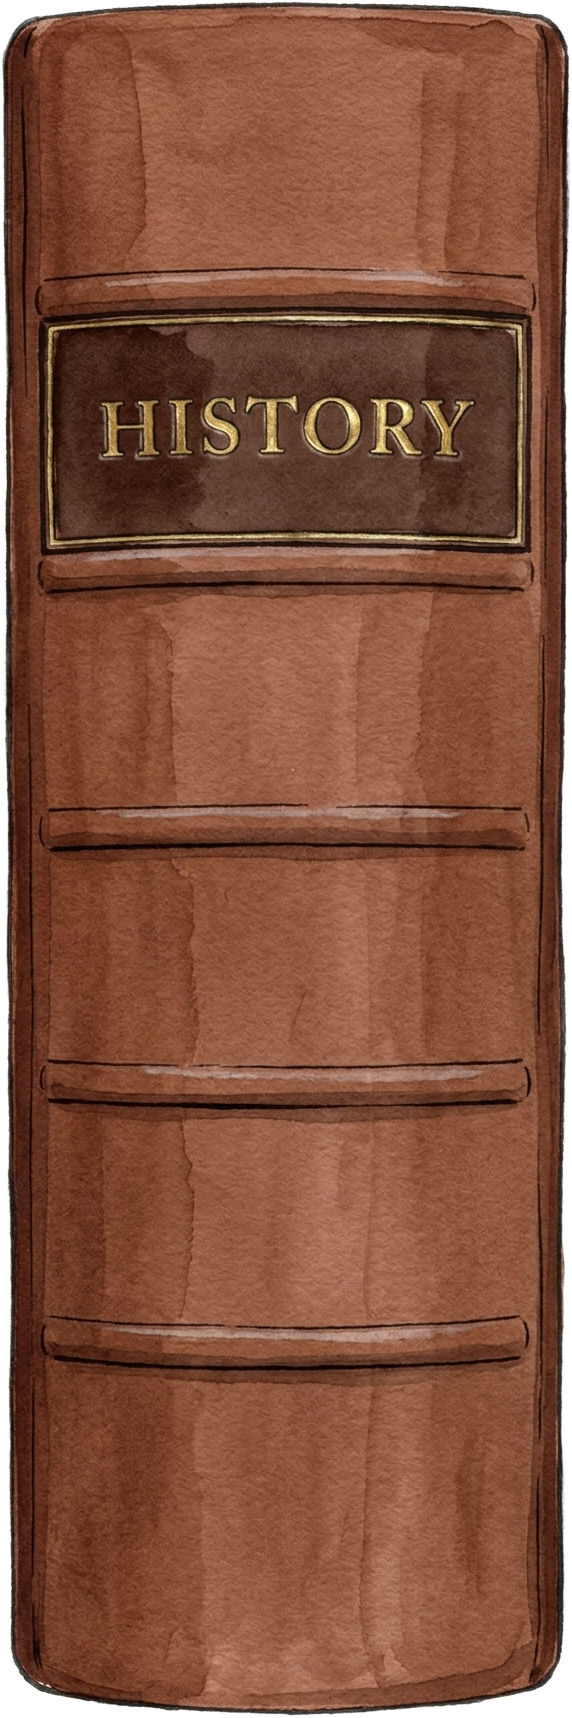
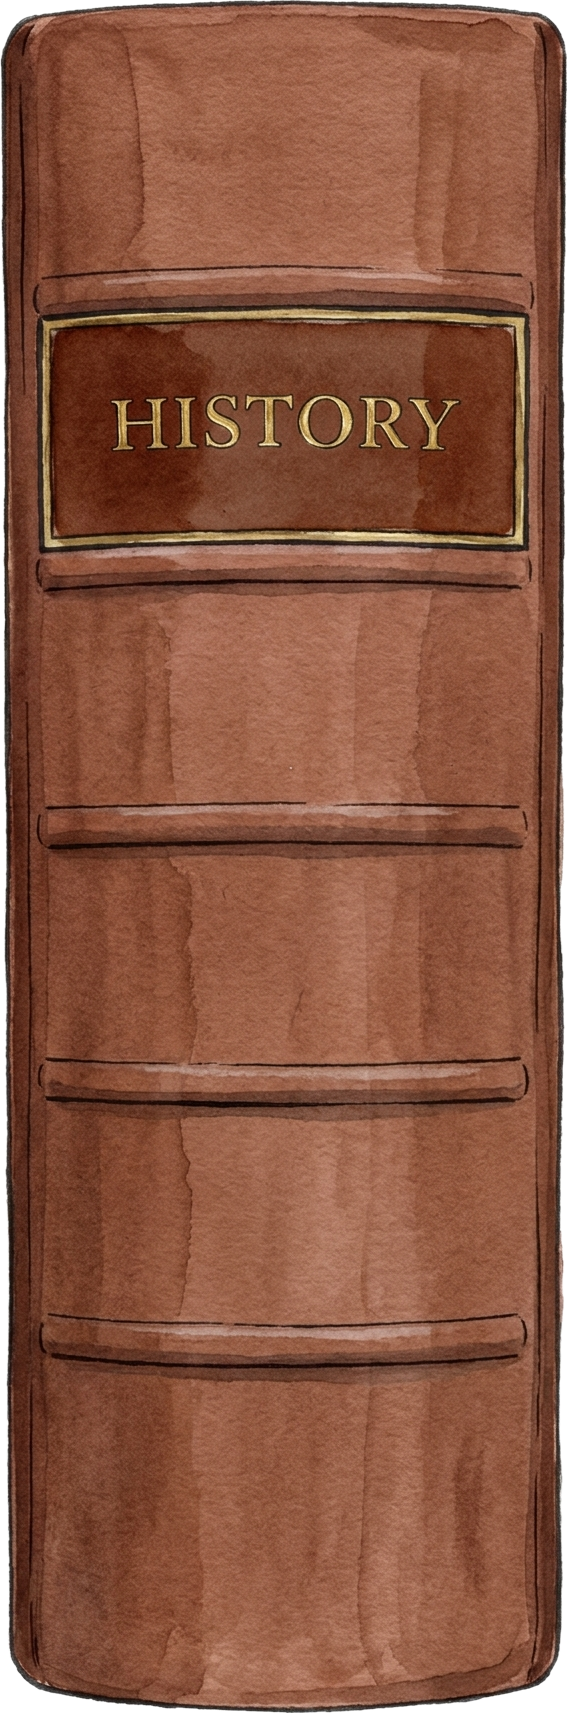
Static books: brown-locked labels, clean edges, real contact shadows
Tom (right): the static books' labels weren't consistently brown — the
recolour pass tinted each label toward its cloth colour, so only the
warm books looked brown. Regenerated all 9 img2img with the label
LOCKED to deep chestnut-brown leather regardless of cloth colour +
cleaner cut (1px erosion kills the white bottom halo). Compare page:
reverted the tight packing (natural gaps), added a real soft contact
shadow under each book base on the shelf. Proves the static per-subject
approach is production-viable at zero per-student cost.

Changed region(s): [[0.0, 0.0, 1.0, 1.0], [0.6896, 0.4641, 0.7795, 0.495]]

diff --git a/design-lab/_shelf_compare.html b/design-lab/_shelf_compare.html
@@ -12,11 +12,15 @@
  .scene .lay{position:absolute;inset:0}
  /* static composite */
  .stage{position:relative}
- .row{display:flex;align-items:flex-end;gap:2px;position:relative;z-index:2;padding:0 26px}
+ .row{display:flex;align-items:flex-end;gap:5px;position:relative;z-index:2;padding:0 26px}
  .bk{position:relative;height:242px}
  .bk img{display:block}
- .bk img.cold{height:242px;width:auto;filter:saturate(.32) brightness(1.26) drop-shadow(1px 5px 3px rgba(40,28,12,.32))}
+ .bk img.cold{height:242px;width:auto;filter:saturate(.34) brightness(1.24)}
  .bk img.warm{position:absolute;inset:0;height:100%;width:100%}
+ /* real contact shadow on the shelf under each book base */
+ .bk::before{content:"";position:absolute;left:4%;right:4%;bottom:1px;height:18px;z-index:-1;
+   background:radial-gradient(52% 120% at 50% 0%, rgba(34,22,8,.55), rgba(34,22,8,.18) 55%, transparent 78%);
+   filter:blur(2.5px)}
  .ledge{display:block;width:100%;margin-top:-12px;position:relative;z-index:1}
 </style>
 <div class="wrap">
